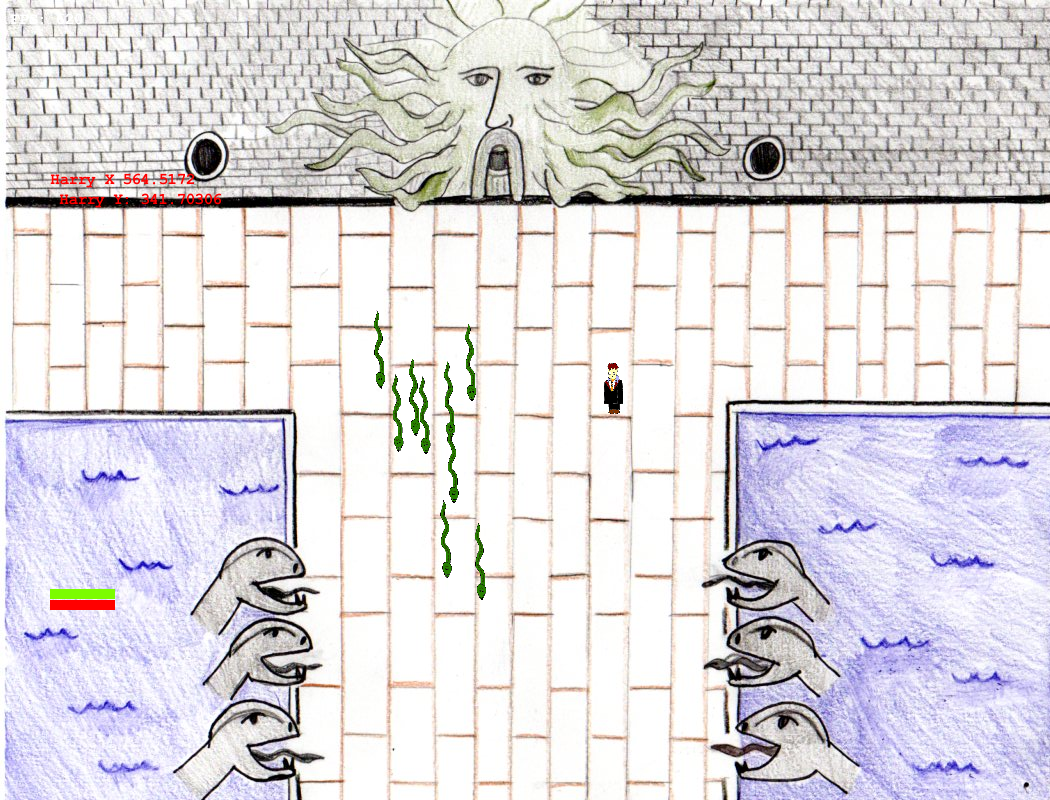
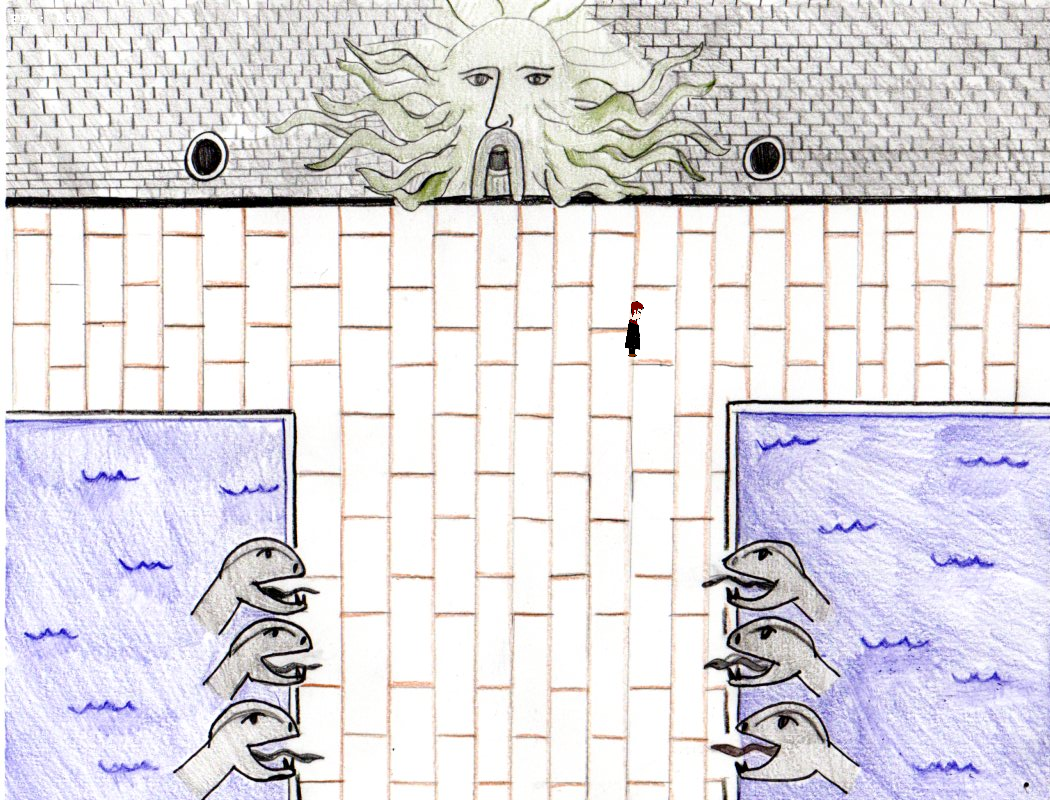
The power spell - visible when F is pressed, and there is magic left
04/07/13

Magician
Circle power - the circle that protects harry
int powerRadius - the radius of the powerup
boolean isPowerOn
powerCircleOn(int delta) - if there is magic left, then isPowerOn is
true; else isPowerOn is false; updateCircle(delta) is called no matter
what
updateCircle(delta) - Updates the circle based on delta and isPowerOn
drawPowerCircle(Graphics g) - draws the circle power up
powerCircleOff(int delta) - isPowerOn is set to false
MagicBar
isEmpty() - if the magicbar is empty
CharList
killEnemies(Shape spellBound, boolean isUsing) - the enemies instersect
in harry’s shield then they die. - NOT tested

diff --git a/src/finalHPGame/Play.java b/src/finalHPGame/Play.java
@@ -20,21 +20,23 @@ public class Play extends BasicGameState {
 		level = play1;
 	}
 
-	CharList list;
+	Magician hp;
 	Image worldMap;
-	float moveEnemyTimer=0;
 
+	Enemy a;
 
+	int timer = 0;
 
 
 	public void init(GameContainer arg0, StateBasedGame arg1)
 			throws SlickException {
 
-		list = new CharList(level);
+		hp = new Magician(200,300,"hp",1);
+
 		if(level==1)worldMap = new Image("res/chamberColor.jpg");
 		if(level==2)worldMap = new Image("res/Quiddich.jpg");
 
-		//a = new Enemy(300,200,"snake",1);
+		a = new Enemy(400,200,"snake",1);
 
 	}
 
@@ -43,82 +45,82 @@ public class Play extends BasicGameState {
 			throws SlickException {
 
 		worldMap.draw(0,0);
-		list.drawEveryone();
-		list.getMainCharacter().getMagicBar().drawBar(g);
-		list.getMainCharacter().getHealthBar().draw(g);
-		//	a.draw();
 
-		org.newdawn.slick.Color r = new org.newdawn.slick.Color(255, 0, 0);
-		g.setColor(r);
-		g.drawString("Harry X "+list.getMainCharacter().getPositionX()+"\n Harry Y: "+list.getMainCharacter().getPositionY(), 50, 170);
-		/*
-		power = new Circle(list.getMainCharacter().getPositionX()+50,list.getMainCharacter().getPositionY()+50,circleExpanding);
-		if(power!=null) g.draw(power);
-		Rectangle rr = new Rectangle(a.getPositionX()+35,a.getPositionY()+5,25,80);
-		g.draw(rr);
-		System.out.println(intersectswithCircle(rr));*/
+		hp.draw();
+		hp.getHealthBar().draw(g);
+		hp.getMagicBar().drawBar(g);
+
+		/*org.newdawn.slick.Color r = new org.newdawn.slick.Color(255, 0, 0);
+		g.setColor(r);*/
+
+		hp.drawPowerCircle(g);
+
+
 	}
 
 
 	public void update(GameContainer gc, StateBasedGame arg1, int delta)
 			throws SlickException {
-
-
-		moveEnemyTimer+=delta;
-		if(moveEnemyTimer>200){
-			list.moveEnemies(delta);
-
-			moveEnemyTimer=0;
+		timer+=delta;
+		if(timer>=500){
+			System.out.println("is Power on: "+hp.isPowerOn());
+			System.out.println("is invisible on: "+hp.isInvisble());
+			timer=0;
 		}
 
 		Input input = gc.getInput();
 
 		if(input.isKeyDown(Input.KEY_UP)){
-			list.characters.get(0).setPositionY(-delta * list.getMainCharacter().getSpeed());
+			hp.setPositionY(-delta * hp.getSpeed());
+
 		}
 
 		if(input.isKeyDown(Input.KEY_DOWN)){
-			list.characters.get(0).setPositionY(delta*list.getMainCharacter().getSpeed());
+			hp.setPositionY(delta*hp.getSpeed());
 		}
 
 		if(input.isKeyDown(Input.KEY_LEFT)){
-			list.characters.get(0).setPositionX(-delta*list.getMainCharacter().getSpeed());
+			hp.setPositionX(-delta*hp.getSpeed());
 		}
 
 		if(input.isKeyDown(Input.KEY_RIGHT)){
-			list.characters.get(0).setPositionX(delta*list.getMainCharacter().getSpeed());
+			hp.setPositionX(delta*hp.getSpeed());
 		}
 
 		if(input.isKeyDown(Input.KEY_SPACE)){
-			list.getMainCharacter().setInvisibleTrue(delta);
+			hp.setInvisibleTrue(delta);
 		}
 
-			if(input.isKeyDown(Input.KEY_F)){
+		if(input.isKeyDown(Input.KEY_F)){
+			hp.powerCircleOn(delta);
 		}
-		
+
 		if(!input.isKeyDown(Input.KEY_F)){
-
+			hp.powerCircleOff(delta);
 		}
 
 		if(!input.isKeyDown(Input.KEY_SPACE)){
-			list.getMainCharacter().setInvisibleFalse();
+			hp.setInvisibleFalse();
 		}
 
 		//if the user is pressing down a,
 		//then the speed of main character increases
 		if(input.isKeyDown(Input.KEY_A)){
-			list.getMainCharacter().setSpeedFast(delta);
+			hp.setSpeedFast(delta);
 		}
 
 		//if the user is not pressing a,
 		//the speed is back to normal
 		if(!input.isKeyDown(Input.KEY_A)){
-			list.getMainCharacter().setSpeedNormal();
+			hp.setSpeedNormal();
 		}
 
 		//IF the user is not using any of the powers, then load the magicbar
-		if(!input.isKeyDown(Input.KEY_A)&&!input.isKeyDown(Input.KEY_SPACE)){
-			list.getMainCharacter().getMagicBar().reviveMagicBar(delta);
+		if(! input.isKeyDown(Input.KEY_A) 
+			&& ! input.isKeyDown(Input.KEY_SPACE) 
+			&& ! input.isKeyDown(Input.KEY_F)){
+			
+					hp.getMagicBar().reviveMagicBar(delta);
 		}
 
 		//When the user press s, then it takes a screenshoot

diff --git a/src/finalHPGame/Magician.java b/src/finalHPGame/Magician.java
@@ -13,11 +13,14 @@ public class Magician extends Character {
 	 */
 
 	private boolean isInvisible;
+
 	private float speed = .1f;
 	private MagicBar bar;
 	private HealthBar hp;
 
+	private boolean isPowerOn;
 	private Circle power;
+	private int powerRadius;
 
 	// get the x, y, name, and the current level
 	public Magician(float mypositionX, float mypositionY, String myname, int level)
@@ -25,6 +28,9 @@ public class Magician extends Character {
 		super(mypositionX, mypositionY, myname, level);
 		bar = new MagicBar();
 		hp = new HealthBar();
+		powerRadius = 1;
+		isPowerOn = false;
+		power = new Circle(getPositionX()+60,getPositionY()+40,powerRadius);
 
 	}
 
@@ -93,9 +99,60 @@ public class Magician extends Character {
 		}
 	}
 
+	//Changes isPowerOn based on few conditions
+	public void powerCircleOn(int delta){
+		//There must be energy is the energy bar
+		if(!bar.isEmpty()){
+			isPowerOn = true;
+		}
+		else{
+			isPowerOn = false;
+		}
+		//updates the circle based on isPowerOn
+		updateCircle(delta);
+	}
+
+	//returns the value of isPowerOn
+	public boolean isPowerOn(){
+		return isPowerOn;
+	}
+	//isPowerOn is set to false
+	public void powerCircleOff(int delta){
+		isPowerOn = false;
+		//updates the circle based on isPowerOn
+		updateCircle(delta);
+	}
+
+	//Updates the circle based on delta and isPoweron
+	public void updateCircle(int delta){
+		//if isPowerOn is true
+		if(isPowerOn){
+			//restricts the size of the circle
+			if(powerRadius<=60){
+				powerRadius+=delta;
+			}
+			power.setCenterX(getPositionX()+50);
+			power.setCenterY(getPositionY()+40);
+			power.setRadius(powerRadius);
+			bar.decreaseMagicBar(delta);
+		}
+		else{
+			//if isPowerOn is false, then the circle moves to (0,0)
+			//with size 1
+			powerRadius = 1;
+			power.setCenterX(0);
+			power.setCenterY(0);
+			power.setRadius(powerRadius);
+		}
+
+	}
+	
+	//Draws the circle power up
 	public void drawPowerCircle(Graphics g){
 		g.draw(power);
 	}
+
+
 	/*Overrides the draw method
 	 * if magican is invisble, then his height and width is 1
 	 * else he is normally drawn */

diff --git a/src/finalHPGame/CharList.java b/src/finalHPGame/CharList.java
@@ -3,6 +3,7 @@ package finalHPGame;
 import java.util.ArrayList;
 
 import org.newdawn.slick.SlickException;
+import org.newdawn.slick.geom.Shape;
 
 public class CharList {
 
@@ -12,7 +13,7 @@ public class CharList {
 
 		characters = new ArrayList<Character>();
 
-		
+
 
 		//add the characters we would have in level one.
 		if(level==1){
@@ -55,6 +56,21 @@ public class CharList {
 	public Magician getMainCharacter(){
 		return (Magician) characters.get(0);
 	}
+	
+	//The enemies will be removed from the list if they intersect Harry's circle spell
+	//and the user is click F
+	public void killEnemies(Shape spellBound, boolean isUsing){
+		if(isUsing){
+			for(int x = 0; x<characters.size();x++){
+				if(characters.get(x) instanceof Enemy){
+					if(spellBound.intersects(characters.get(x).getPersonalSpace())){
+						characters.remove(x);
+						--x;
+					}
+				}
+			}
+		}
+	}
 
 	//Calls the moveRandom() by all the enemies
 	//in the list
@@ -62,7 +78,7 @@ public class CharList {
 		for(Character c: characters){
 			if(c instanceof Enemy){
 				((Enemy) c).moveToward(characters.get(0),((Magician)characters.get(0)).isInvisble());
-				
+
 				if( ((Enemy) c).intersectMainCharacter(getMainCharacter())){
 					getMainCharacter().decreaseHealth(delta);
 				}

diff --git a/src/finalHPGame/MagicBar.java b/src/finalHPGame/MagicBar.java
@@ -44,6 +44,13 @@ public class MagicBar {
 
 	}
 	
+	public boolean isFull(){
+		return(spellBarX>=65);
+	}
+	public boolean isEmpty(){
+		return(spellBarX<5);
+	}
+	
 	//Draws the magicbar
 	public void drawBar(Graphics g){
 		org.newdawn.slick.Color r = new org.newdawn.slick.Color(255, 0, 0);

diff --git a/src/finalHPGame/Character.java b/src/finalHPGame/Character.java
@@ -31,6 +31,8 @@ public class Character {
 		isDead =false;
 		name = myname.toLowerCase();
 		level = currentlevel;
+		
+		
 
 		/*if the names equals to harry etc. then the animations variables will be set 
 		for him.*/
